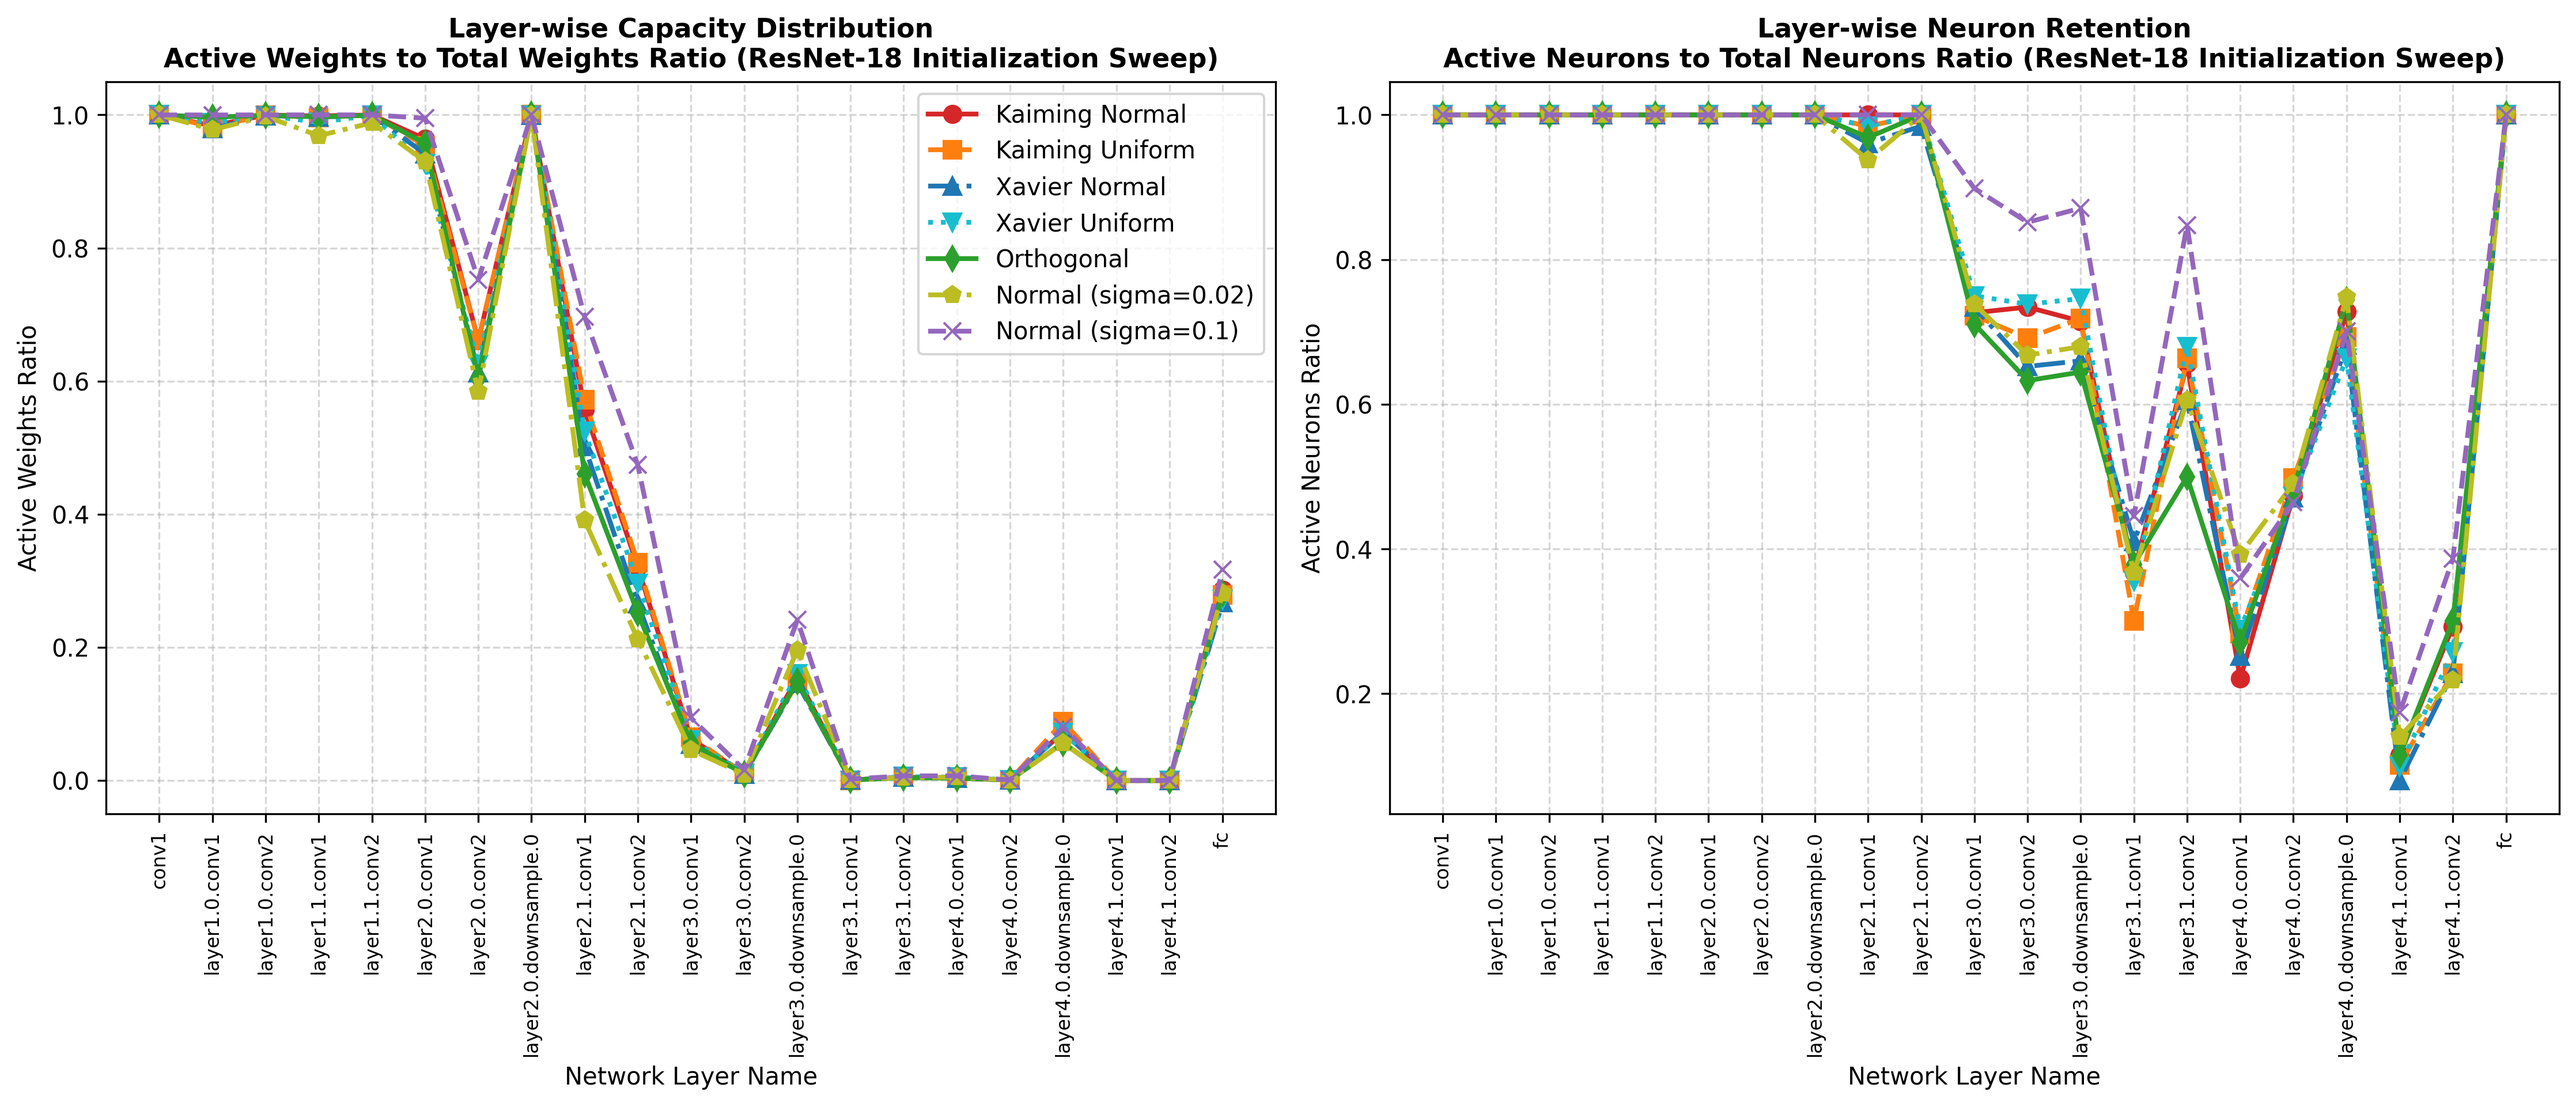
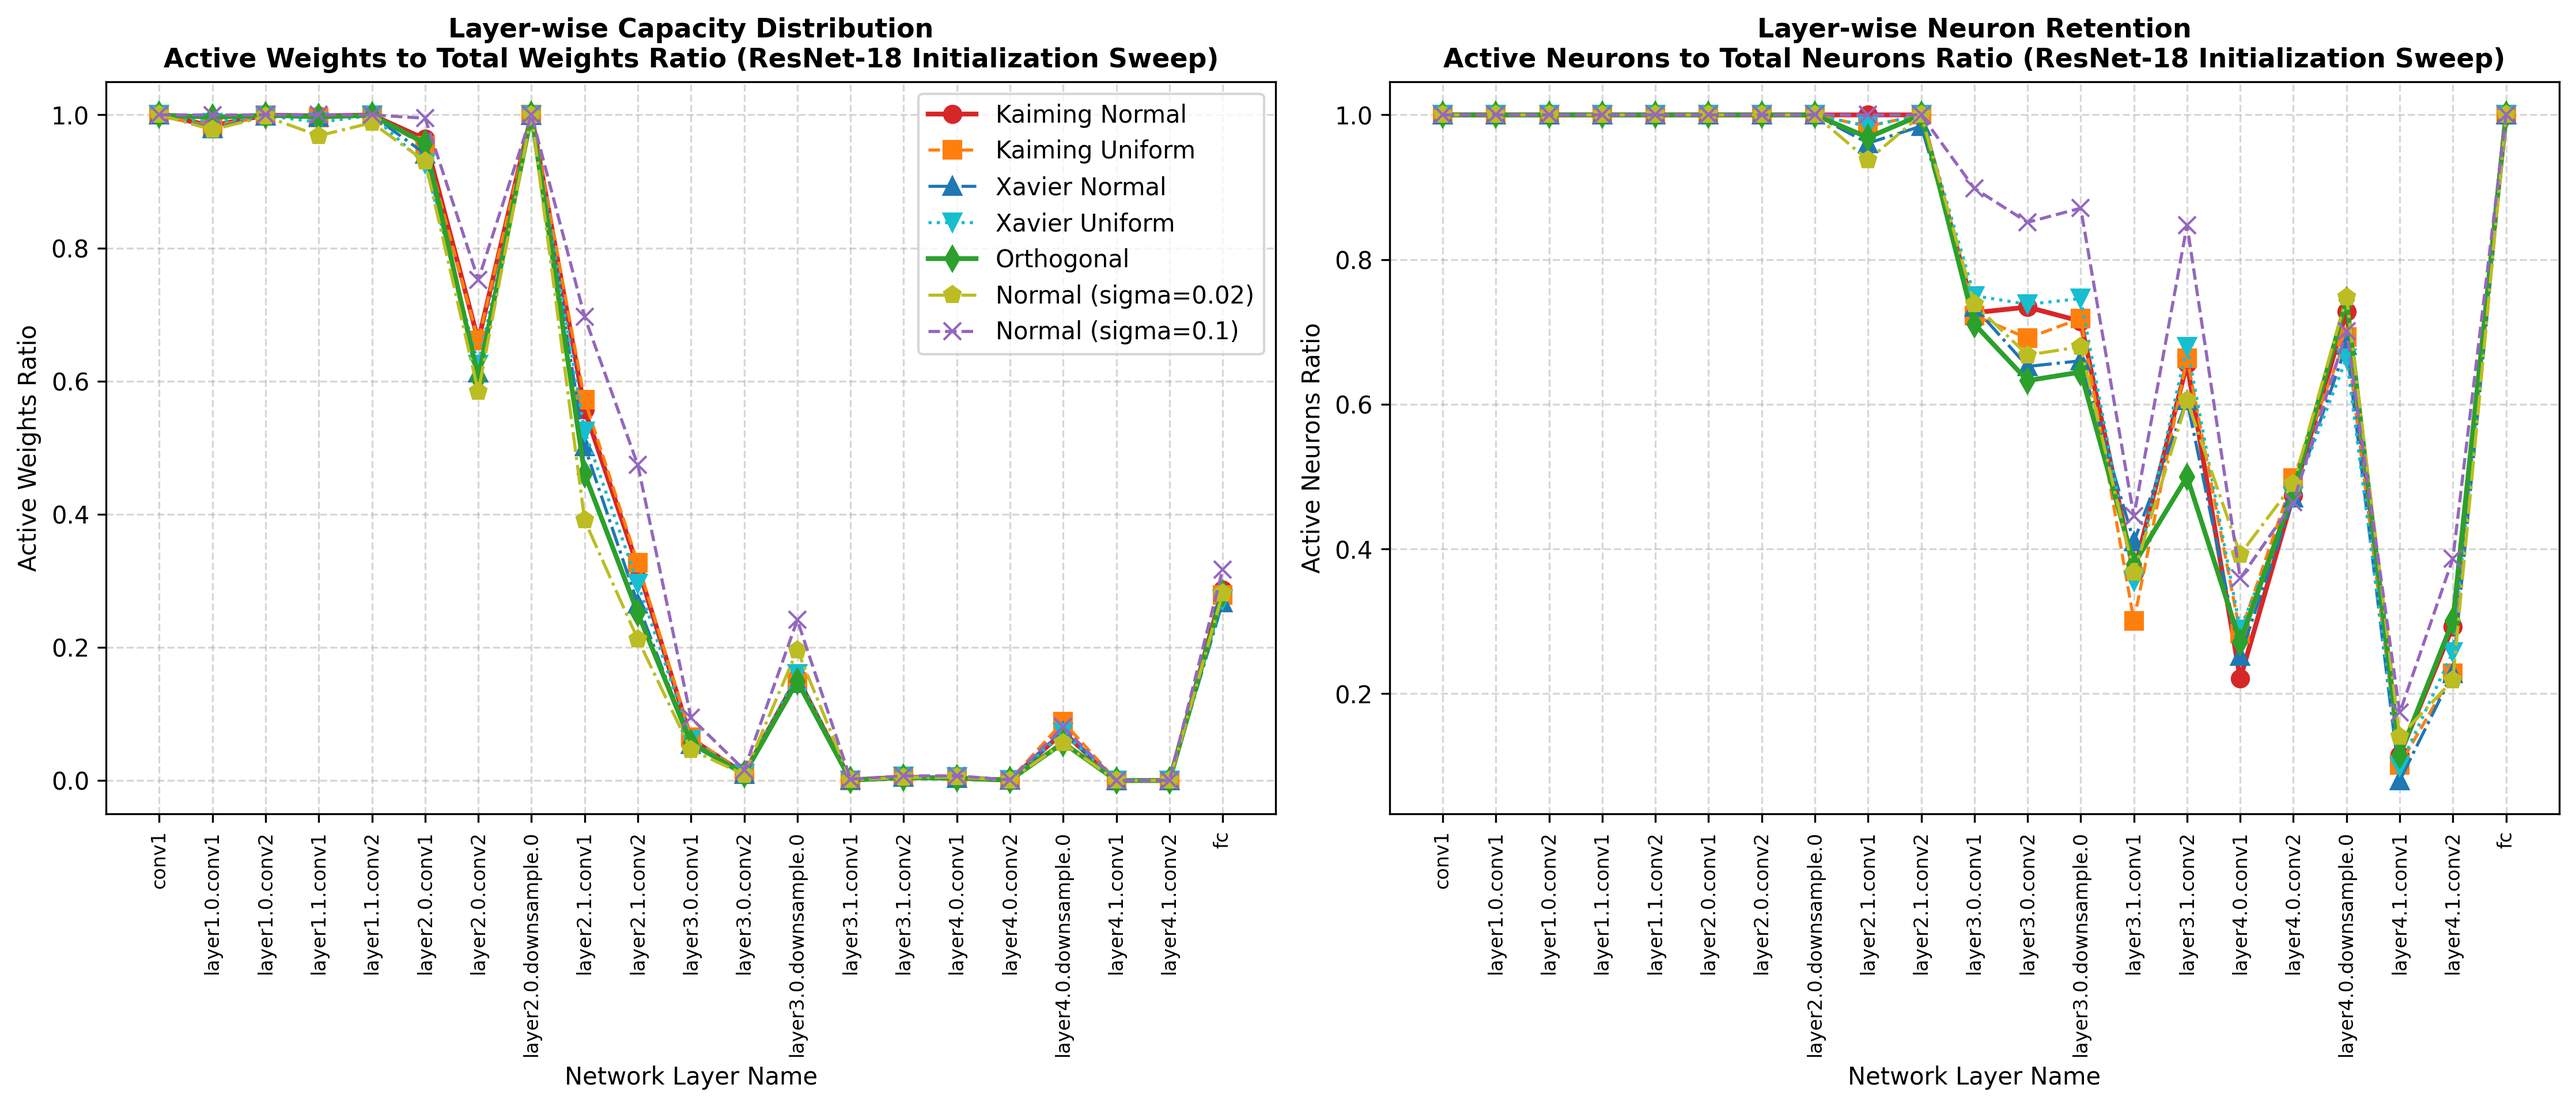
style: slightly reduce dashed and dotted line widths to 1.3 for cleaner visual separation

diff --git a/scripts/plotting/plot_resnet18_init_layer_metrics.py b/scripts/plotting/plot_resnet18_init_layer_metrics.py
@@ -92,9 +92,10 @@ ax1.set_ylabel('Active Weights Ratio', fontsize=10)
 ax1.set_xlabel('Network Layer Name', fontsize=10)
 
 for method, data in layer_data.items():
+    lw = 2.0 if styles[method]['linestyle'] == '-' else 1.3
     ax1.plot(data['layers'], data['weights_ratio'], 
              color=styles[method]['color'], marker=styles[method]['marker'], 
-             linestyle=styles[method]['linestyle'], label=method, linewidth=2, markersize=7)
+             linestyle=styles[method]['linestyle'], label=method, linewidth=lw, markersize=7)
 
 ax1.legend(loc='upper right', frameon=True)
 ax1.tick_params(axis='x', labelrotation=90, labelsize=8)
@@ -105,9 +106,10 @@ ax2.set_ylabel('Active Neurons Ratio', fontsize=10)
 ax2.set_xlabel('Network Layer Name', fontsize=10)
 
 for method, data in layer_data.items():
+    lw = 2.0 if styles[method]['linestyle'] == '-' else 1.3
     ax2.plot(data['layers'], data['neurons_ratio'], 
              color=styles[method]['color'], marker=styles[method]['marker'], 
-             linestyle=styles[method]['linestyle'], label=method, linewidth=2, markersize=7)
+             linestyle=styles[method]['linestyle'], label=method, linewidth=lw, markersize=7)
 
 # Remove legend from ax2 to prevent overlap/clutter as ax1 already displays it
 ax2.tick_params(axis='x', labelrotation=90, labelsize=8)

diff --git a/scripts/plotting/plot_vgg16_init_layer_metrics.py b/scripts/plotting/plot_vgg16_init_layer_metrics.py
@@ -83,9 +83,10 @@ ax1.set_ylabel('Active Weights Ratio', fontsize=10)
 ax1.set_xlabel('Network Layer Name', fontsize=10)
 
 for method, data in layer_data.items():
+    lw = 2.0 if styles[method]['linestyle'] == '-' else 1.3
     ax1.plot(data['layers'], data['weights_ratio'], 
              color=styles[method]['color'], marker=styles[method]['marker'], 
-             linestyle=styles[method]['linestyle'], label=method, linewidth=2, markersize=7)
+             linestyle=styles[method]['linestyle'], label=method, linewidth=lw, markersize=7)
 
 ax1.legend(loc='upper right', frameon=True)
 ax1.tick_params(axis='x', labelrotation=90, labelsize=8)
@@ -96,9 +97,10 @@ ax2.set_ylabel('Active Neurons Ratio', fontsize=10)
 ax2.set_xlabel('Network Layer Name', fontsize=10)
 
 for method, data in layer_data.items():
+    lw = 2.0 if styles[method]['linestyle'] == '-' else 1.3
     ax2.plot(data['layers'], data['neurons_ratio'], 
              color=styles[method]['color'], marker=styles[method]['marker'], 
-             linestyle=styles[method]['linestyle'], label=method, linewidth=2, markersize=7)
+             linestyle=styles[method]['linestyle'], label=method, linewidth=lw, markersize=7)
 
 # Remove legend from ax2 to prevent overlap/clutter as ax1 already displays it
 ax2.tick_params(axis='x', labelrotation=90, labelsize=8)

diff --git a/scripts/plotting/plot_resnet18_layer_metrics.py b/scripts/plotting/plot_resnet18_layer_metrics.py
@@ -86,9 +86,10 @@ ax1.set_ylabel('Active Weights Ratio', fontsize=10)
 ax1.set_xlabel('Network Layer Name', fontsize=10)
 
 for method, data in layer_data.items():
+    lw = 2.0 if styles[method]['linestyle'] == '-' else 1.3
     ax1.plot(data['layers'], data['weights_ratio'], 
              color=styles[method]['color'], marker=styles[method]['marker'], 
-             linestyle=styles[method]['linestyle'], label=method, linewidth=2, markersize=7)
+             linestyle=styles[method]['linestyle'], label=method, linewidth=lw, markersize=7)
 
 ax1.legend(loc='upper right', frameon=True)
 ax1.tick_params(axis='x', labelrotation=90, labelsize=8)
@@ -99,9 +100,10 @@ ax2.set_ylabel('Active Neurons Ratio', fontsize=10)
 ax2.set_xlabel('Network Layer Name', fontsize=10)
 
 for method, data in layer_data.items():
+    lw = 2.0 if styles[method]['linestyle'] == '-' else 1.3
     ax2.plot(data['layers'], data['neurons_ratio'], 
              color=styles[method]['color'], marker=styles[method]['marker'], 
-             linestyle=styles[method]['linestyle'], label=method, linewidth=2, markersize=7)
+             linestyle=styles[method]['linestyle'], label=method, linewidth=lw, markersize=7)
 
 ax2.tick_params(axis='x', labelrotation=90, labelsize=8)
 

diff --git a/scripts/plotting/plot_resnet18_layer_metrics_99.py b/scripts/plotting/plot_resnet18_layer_metrics_99.py
@@ -86,9 +86,10 @@ ax1.set_ylabel('Active Weights Ratio', fontsize=10)
 ax1.set_xlabel('Network Layer Name', fontsize=10)
 
 for method, data in layer_data.items():
+    lw = 2.0 if styles[method]['linestyle'] == '-' else 1.3
     ax1.plot(data['layers'], data['weights_ratio'], 
              color=styles[method]['color'], marker=styles[method]['marker'], 
-             linestyle=styles[method]['linestyle'], label=method, linewidth=2, markersize=7)
+             linestyle=styles[method]['linestyle'], label=method, linewidth=lw, markersize=7)
 
 ax1.legend(loc='upper right', frameon=True)
 ax1.tick_params(axis='x', labelrotation=90, labelsize=8)
@@ -99,9 +100,10 @@ ax2.set_ylabel('Active Neurons Ratio', fontsize=10)
 ax2.set_xlabel('Network Layer Name', fontsize=10)
 
 for method, data in layer_data.items():
+    lw = 2.0 if styles[method]['linestyle'] == '-' else 1.3
     ax2.plot(data['layers'], data['neurons_ratio'], 
              color=styles[method]['color'], marker=styles[method]['marker'], 
-             linestyle=styles[method]['linestyle'], label=method, linewidth=2, markersize=7)
+             linestyle=styles[method]['linestyle'], label=method, linewidth=lw, markersize=7)
 
 ax2.tick_params(axis='x', labelrotation=90, labelsize=8)
 

diff --git a/scripts/plotting/plot_vgg16_layer_metrics.py b/scripts/plotting/plot_vgg16_layer_metrics.py
@@ -74,9 +74,10 @@ ax1.set_ylabel('Active Weights Ratio', fontsize=10)
 ax1.set_xlabel('Network Layer Name', fontsize=10)
 
 for method, data in layer_data.items():
+    lw = 2.0 if styles[method]['linestyle'] == '-' else 1.3
     ax1.plot(data['layers'], data['weights_ratio'], 
              color=styles[method]['color'], marker=styles[method]['marker'], 
-             linestyle=styles[method]['linestyle'], label=method, linewidth=2, markersize=7)
+             linestyle=styles[method]['linestyle'], label=method, linewidth=lw, markersize=7)
 
 ax1.legend(loc='upper right', frameon=True)
 ax1.tick_params(axis='x', labelrotation=90, labelsize=8)
@@ -87,9 +88,10 @@ ax2.set_ylabel('Active Neurons Ratio', fontsize=10)
 ax2.set_xlabel('Network Layer Name', fontsize=10)
 
 for method, data in layer_data.items():
+    lw = 2.0 if styles[method]['linestyle'] == '-' else 1.3
     ax2.plot(data['layers'], data['neurons_ratio'], 
              color=styles[method]['color'], marker=styles[method]['marker'], 
-             linestyle=styles[method]['linestyle'], label=method, linewidth=2, markersize=7)
+             linestyle=styles[method]['linestyle'], label=method, linewidth=lw, markersize=7)
 
 ax2.tick_params(axis='x', labelrotation=90, labelsize=8)
 

diff --git a/scripts/representation_analysis.py b/scripts/representation_analysis.py
@@ -205,7 +205,7 @@ def plot_dadp_vs_baseline(
         color = colors[idx % len(colors)]
         marker = markers[idx % len(markers)]
         norm_entropy = [metrics[l]["norm_entropy"] for l in layer_names]
-        axes[0].plot(x_coords, norm_entropy, f'{marker}--', label=label, color=color, linewidth=2.0, markersize=5)
+        axes[0].plot(x_coords, norm_entropy, f'{marker}--', label=label, color=color, linewidth=1.3, markersize=5)
         
     axes[0].set_title(f"{model_name}: Normalized Dataset Entropy ($S_1$) Across Layers", fontsize=11, fontweight='bold')
     axes[0].set_xlabel("Layer Name", fontsize=10)
@@ -222,7 +222,7 @@ def plot_dadp_vs_baseline(
         color = colors[idx % len(colors)]
         marker = markers[idx % len(markers)]
         eff_rank = [metrics[l]["eff_rank"] for l in layer_names]
-        axes[1].plot(x_coords, eff_rank, f'{marker}--', label=label, color=color, linewidth=2.0, markersize=5)
+        axes[1].plot(x_coords, eff_rank, f'{marker}--', label=label, color=color, linewidth=1.3, markersize=5)
         
     axes[1].set_title(f"{model_name}: Effective Rank ($\\exp(S_1)$) Across Layers", fontsize=11, fontweight='bold')
     axes[1].set_xlabel("Layer Name", fontsize=10)

diff --git a/scripts/plotting/plot_resnet18_ratio_over_epochs.py b/scripts/plotting/plot_resnet18_ratio_over_epochs.py
@@ -43,14 +43,15 @@ for method, path in comparison_files.items():
     epochs = np.arange(1, len(active_w) + 1)
     
     # Plot 1: Actual Active Weights Count
+    lw = 2.0 if styles[method]['linestyle'] == '-' else 1.3
     ax1.plot(epochs, active_w, 
              color=styles[method]['color'], marker=styles[method]['marker'], 
-             linestyle=styles[method]['linestyle'], label=method, linewidth=2, markersize=6)
+             linestyle=styles[method]['linestyle'], label=method, linewidth=lw, markersize=6)
              
     # Plot 2: Actual Active Neurons Count
     ax2.plot(epochs, active_n, 
              color=styles[method]['color'], marker=styles[method]['marker'], 
-             linestyle=styles[method]['linestyle'], label=method, linewidth=2, markersize=6)
+             linestyle=styles[method]['linestyle'], label=method, linewidth=lw, markersize=6)
 
 # Labels & Styling
 ax1.set_title('Global Active Capacity Over Epochs\nActual Active Weights Count (~90% Sparsity)', fontsize=11, fontweight='bold')

diff --git a/scripts/plotting/plot_resnet18_ratio_over_epochs_99.py b/scripts/plotting/plot_resnet18_ratio_over_epochs_99.py
@@ -43,14 +43,15 @@ for method, path in comparison_files.items():
     epochs = np.arange(1, len(active_w) + 1)
     
     # Plot 1: Actual Active Weights Count
+    lw = 2.0 if styles[method]['linestyle'] == '-' else 1.3
     ax1.plot(epochs, active_w, 
              color=styles[method]['color'], marker=styles[method]['marker'], 
-             linestyle=styles[method]['linestyle'], label=method, linewidth=2, markersize=6)
+             linestyle=styles[method]['linestyle'], label=method, linewidth=lw, markersize=6)
              
     # Plot 2: Actual Active Neurons Count
     ax2.plot(epochs, active_n, 
              color=styles[method]['color'], marker=styles[method]['marker'], 
-             linestyle=styles[method]['linestyle'], label=method, linewidth=2, markersize=6)
+             linestyle=styles[method]['linestyle'], label=method, linewidth=lw, markersize=6)
 
 # Labels & Styling
 ax1.set_title('Global Active Capacity Over Epochs\nActual Active Weights Count (~99% Sparsity)', fontsize=11, fontweight='bold')

diff --git a/scripts/plotting/plot_vgg16_ratio_over_epochs.py b/scripts/plotting/plot_vgg16_ratio_over_epochs.py
@@ -43,14 +43,15 @@ for method, path in comparison_files.items():
     epochs = np.arange(1, len(active_w) + 1)
     
     # Plot 1: Actual Active Weights Count
+    lw = 2.0 if styles[method]['linestyle'] == '-' else 1.3
     ax1.plot(epochs, active_w, 
              color=styles[method]['color'], marker=styles[method]['marker'], 
-             linestyle=styles[method]['linestyle'], label=method, linewidth=2, markersize=6)
+             linestyle=styles[method]['linestyle'], label=method, linewidth=lw, markersize=6)
              
     # Plot 2: Actual Active Neurons Count
     ax2.plot(epochs, active_n, 
              color=styles[method]['color'], marker=styles[method]['marker'], 
-             linestyle=styles[method]['linestyle'], label=method, linewidth=2, markersize=6)
+             linestyle=styles[method]['linestyle'], label=method, linewidth=lw, markersize=6)
 
 # Labels & Styling
 ax1.set_title('Global Active Capacity Over Epochs\nActual Active Weights Count (~90% Sparsity)', fontsize=11, fontweight='bold')

diff --git a/scripts/plotting/plot_resnet18_init_accuracy_epochs.py b/scripts/plotting/plot_resnet18_init_accuracy_epochs.py
@@ -40,9 +40,10 @@ for method, path in comparison_files.items():
         continue
         
     epochs = np.arange(1, len(test_accs) + 1)
+    lw = 2.0 if styles[method]['linestyle'] == '-' else 1.3
     plt.plot(epochs, test_accs, 
              color=styles[method]['color'], marker=styles[method]['marker'], 
-             linestyle=styles[method]['linestyle'], label=method, linewidth=2, markersize=5)
+             linestyle=styles[method]['linestyle'], label=method, linewidth=lw, markersize=5)
 
 plt.title('ResNet-18 Initialization Sensitivity Study\nTest Accuracy vs. Epochs on CIFAR-10', fontsize=12, fontweight='bold', pad=12)
 plt.xlabel('Epoch', fontsize=11, fontweight='bold')

diff --git a/scripts/plotting/plot_vgg16_init_accuracy_epochs.py b/scripts/plotting/plot_vgg16_init_accuracy_epochs.py
@@ -40,9 +40,10 @@ for method, path in comparison_files.items():
         continue
         
     epochs = np.arange(1, len(test_accs) + 1)
+    lw = 2.0 if styles[method]['linestyle'] == '-' else 1.3
     plt.plot(epochs, test_accs, 
              color=styles[method]['color'], marker=styles[method]['marker'], 
-             linestyle=styles[method]['linestyle'], label=method, linewidth=2, markersize=5)
+             linestyle=styles[method]['linestyle'], label=method, linewidth=lw, markersize=5)
 
 plt.title('VGG-16 Initialization Sensitivity Study\nTest Accuracy vs. Epochs on CIFAR-10', fontsize=12, fontweight='bold', pad=12)
 plt.xlabel('Epoch', fontsize=11, fontweight='bold')
